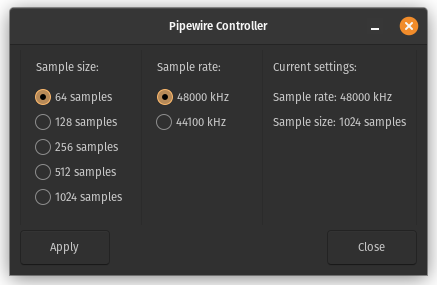
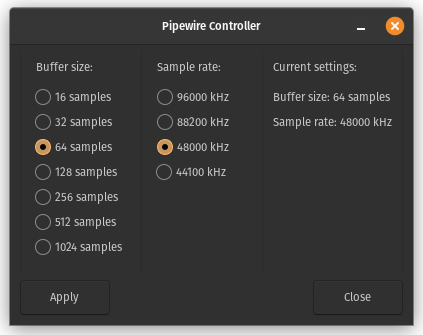
Added buffer/sample options
Added 16 and 32 as buffer options and added  88.2 and 96.0 as rate options

Also change label of Sample size to buffer size which I think might be less confusing even though the unit is samples :D Reasoning for this is that changing this setting is most commonly referred to as changing "buffer"

diff --git a/pipewire-control.py b/pipewire-control.py
@@ -86,7 +86,7 @@ class ControlWindow:
         self.window.set_title("Pipewire Controller")
 
         self.label_buffer_settings = self.builder.get_object("label_buffer_settings")
-        self.label_buffer_settings.set_text(f"Sample size: {self.control.get_current_settings()[0]} samples")
+        self.label_buffer_settings.set_text(f"Buffer size: {self.control.get_current_settings()[0]} samples")
         self.label_sample_settings = self.builder.get_object("label_sample_settings")
         self.label_sample_settings.set_text(f"Sample rate: {self.control.get_current_settings()[1]} kHz")
 
@@ -102,6 +102,12 @@ class ControlWindow:
         self.control.apply_settings()
     
     """Buffer size radio buttons"""
+
+    def on_radio16_toggled(self, toggled):
+        self.control.buffer = 16
+
+    def on_radio32_toggled(self, toggled):
+        self.control.buffer = 32
 
     def on_radio64_toggled(self, toggled):
         self.control.buffer = 64
@@ -119,6 +125,12 @@ class ControlWindow:
         self.control.buffer = 1024
 
     """Samaple rate radio buttons"""
+
+    def on_radio96_toggled(self, toggled):
+        self.control.samples = 96000
+
+    def on_radio88_toggled(self, toggled):
+        self.control.samples = 88200
 
     def on_radio48_toggled(self, toggled):
         self.control.samples = 48000
